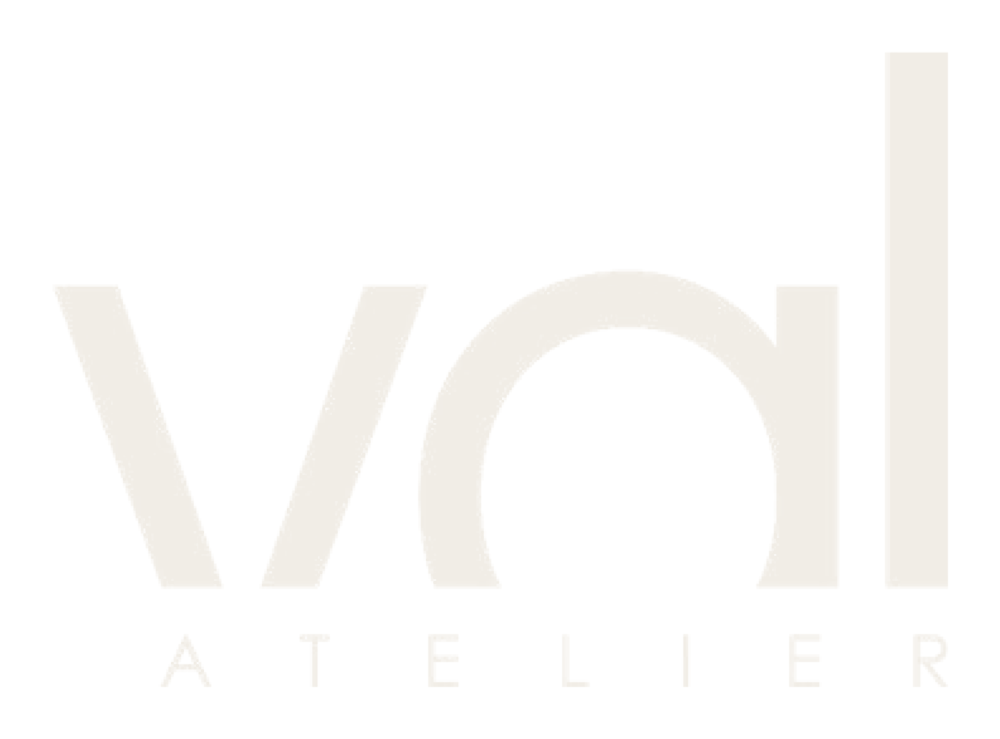
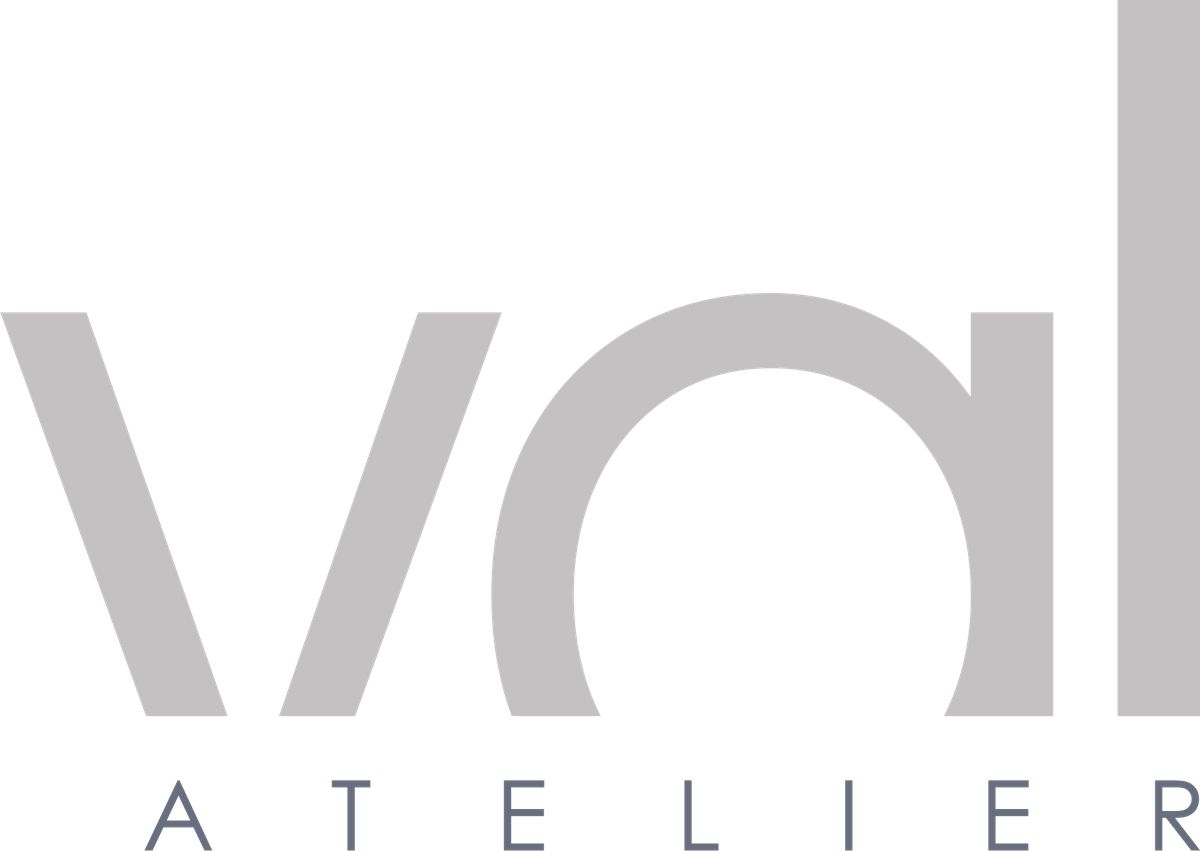
add

diff --git a/assets/css/val.css b/assets/css/val.css
@@ -415,7 +415,9 @@ p.body{font-size:15.5px;line-height:1.8;color:var(--ink-soft);font-weight:400;ma
 html.js .splash{
   position:fixed;inset:0;z-index:9999;
   display:flex;align-items:center;justify-content:center;
-  background:#0a0a0a;color:#d8d4cd;
+  /* the studio's own deepest ink, not a colour borrowed from another
+     studio's branding */
+  background:var(--ink-deep);color:var(--bone-mute);
   will-change:transform;
 }
 @media(prefers-reduced-motion:reduce){html.js .splash{display:none}}
@@ -424,12 +426,13 @@ html.is-splashing{overflow:hidden}
 .splash__lock{text-align:center;transform-origin:50% 50%}
 /* The mark rises out of a clip rather than sliding over the ground, the same
    way a photograph arrives elsewhere on the site. */
-.splash__mark{display:block;overflow:hidden}
+.splash__mark{display:block}
 .splash__mark img{
   /* phase two scales the lockup by 1.045, so it is the size after that which
      has to stay inside the artwork's 1000px */
   display:block;width:clamp(170px,32vw,400px);height:auto;
-  transform:translateY(112%);opacity:0;
+  /* it arrives a little large and closes on its own size */
+  transform:scale(1.08);opacity:0;
 }
 /* nothing moves it if the sequence never runs */
 .splash.is-ready .splash__mark img,
@@ -438,8 +441,8 @@ html:not(.js) .splash__mark img{transform:none;opacity:1}
 /* the sequence without GSAP: the same three phases, same timings */
 .splash.is-css .splash__mark img{animation:splashMark 1s var(--ease-out) both}
 .splash.is-css .splash__lock{animation:splashHold .8s var(--ease-out) 1.2s both}
-.splash.is-css.is-out{transform:translateY(-100%);transition:transform .8s cubic-bezier(.76,0,.24,1)}
-@keyframes splashMark{from{transform:translateY(112%);opacity:0}to{transform:translateY(0);opacity:1}}
+.splash.is-css.is-out{transform:translateX(-100%);transition:transform .8s cubic-bezier(.76,0,.24,1)}
+@keyframes splashMark{from{transform:scale(1.08);opacity:0}to{transform:scale(1);opacity:1}}
 @keyframes splashHold{from{transform:scale(1)}to{transform:scale(1.045)}}
 
 /* ---------- page transition curtain ----------

diff --git a/assets/js/preloader.js b/assets/js/preloader.js
@@ -48,7 +48,7 @@
   /* The shape of the sequence, in seconds, so the phases can be read at a
      glance and moved without hunting through the timeline. */
   var T = {
-    mark:       { at: 0.00, dur: 1.00 },                  /* phase 1 */
+    mark:       { at: 0.00, dur: 1.00, from: 1.08 },      /* phase 1 */
     letters:    { at: 0.00, dur: 0.90, stagger: 0.085 },  /*   or, set in type */
     sub:        { at: 0.35, dur: 0.90 },
     hold:       { at: 1.20, dur: 0.80, scale: 1.045 },    /* phase 2 */
@@ -146,13 +146,13 @@
     var gsap = window.gsap;
     var tl = gsap.timeline({ defaults: { ease: "power3.out" }, onComplete: done });
 
-    /* phase 1 — the mark rises out of nothing, clipped so it arrives rather
-       than slides */
+    /* phase 1 — the mark comes up out of nothing and settles: it arrives a
+       little large and closes on its own size as it fades in */
     tl.set(el, { autoAlpha: 1 });
     if (mark){
       tl.fromTo(mark,
-        { yPercent: 112, opacity: 0 },
-        { yPercent: 0, opacity: 1, duration: T.mark.dur },
+        { opacity: 0, scale: T.mark.from },
+        { opacity: 1, scale: 1, duration: T.mark.dur },
         T.mark.at);
     } else {
       tl.fromTo(letters,
@@ -172,9 +172,11 @@
       { scale: T.hold.scale, duration: T.hold.dur, ease: "power1.out" },
       T.hold.at);
 
-    /* phase 3 — the cover leaves upward and the page behind it begins */
+    /* phase 3 — the cover is drawn off sideways and the page behind it
+       begins. Sideways rather than up: the page underneath arrives across
+       the frame instead of being uncovered from beneath. */
     tl.to(el,
-      { yPercent: -100, duration: T.wipe.dur, ease: "power4.inOut" },
+      { xPercent: -100, duration: T.wipe.dur, ease: "power4.inOut" },
       T.wipe.at);
 
     return tl;

diff --git a/index.html b/index.html
@@ -34,7 +34,7 @@
          and a stroke, which no typeface will give you -->
     <span class="splash__mark">
       <img data-splash-mark src="assets/brand/val-atelier-mark-light.webp"
-           width="1000" height="739" alt="" fetchpriority="high" decoding="async">
+           width="1200" height="851" alt="" fetchpriority="high" decoding="async">
     </span>
   </div>
 </div>
@@ -55,7 +55,7 @@
     <div class="hero__bar hero__bar--b"></div>
 
     <h1 class="hero__name">
-      <img src="assets/brand/val-atelier-mark-light.webp" width="1000" height="739"
+      <img src="assets/brand/val-atelier-mark-light.webp" width="1200" height="851"
            alt="Val Atelier" fetchpriority="high" decoding="async">
     </h1>
 
